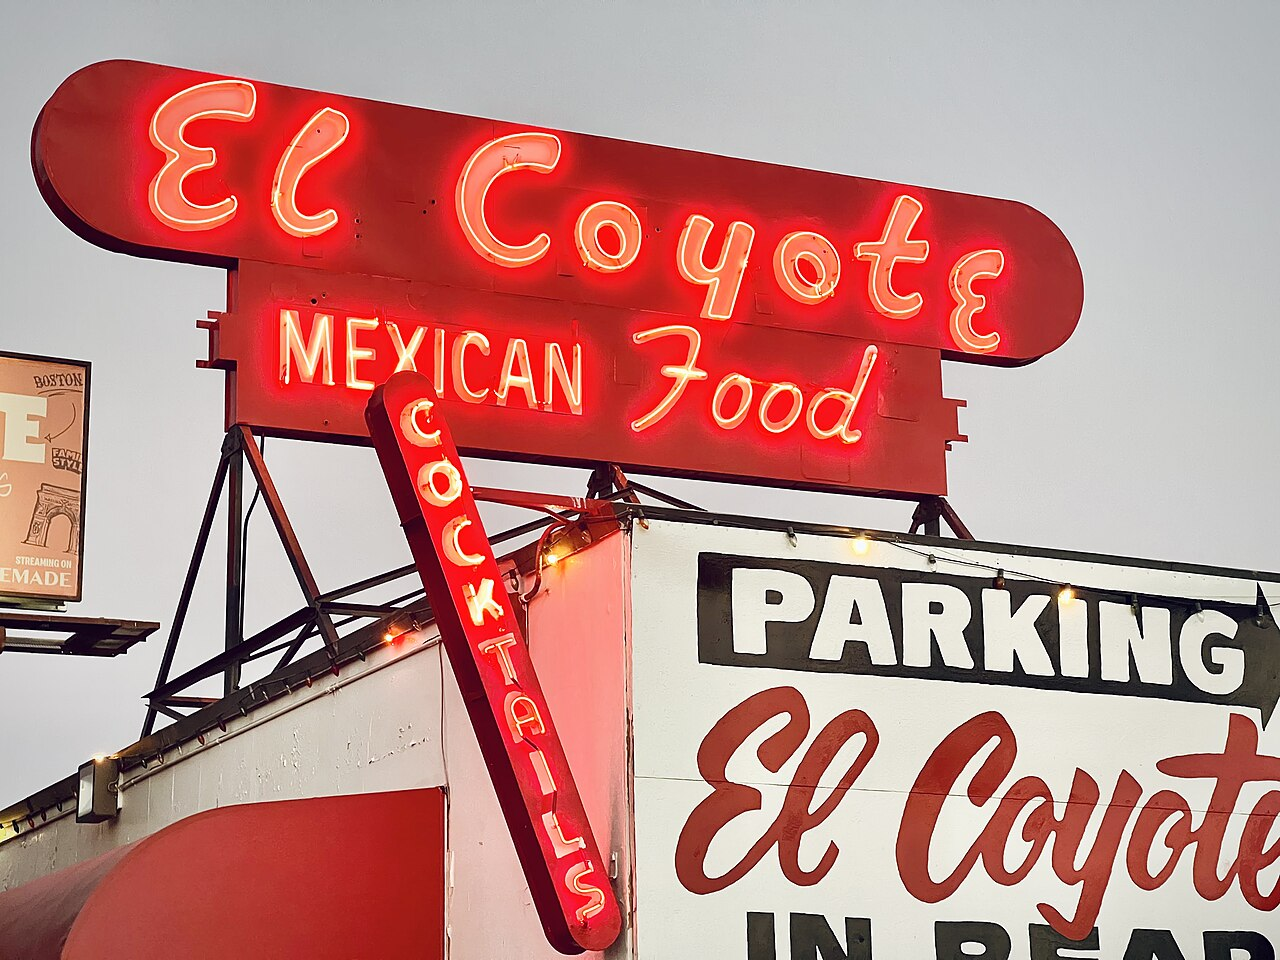
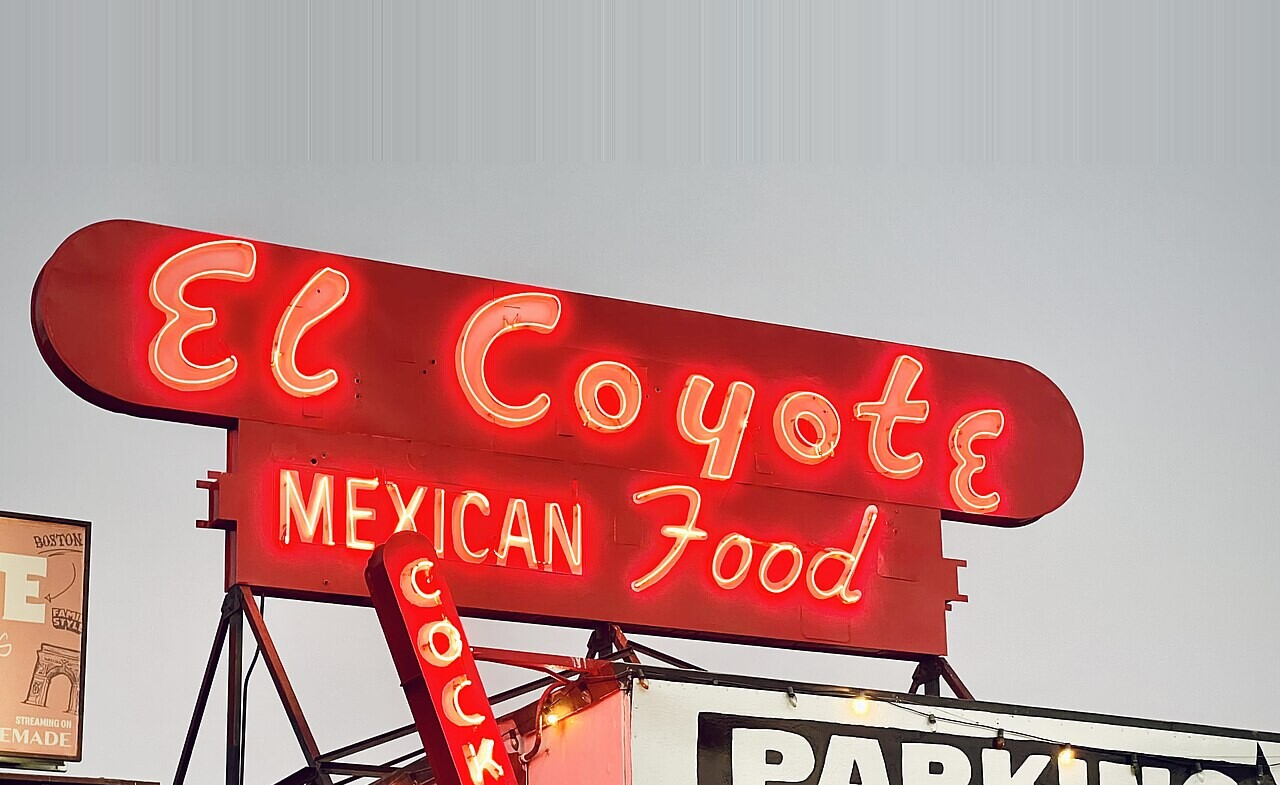
TikTok posts for 2026-11-21: El Coyote, Long Beach vinyl, Malibu seafood, LA bookstores, Chinatown bakeries, plus 2 series posts
Five posts (El Coyote Cafe spotlight; Fingerprints vs Toxic Toast; Neptune's Net vs
Malibu Seafood; Larry Edmunds vs Skylight Books; Phoenix Bakery vs Kim Hung Bakery)
and the series posts for Bay Cities and Pann's. Real Commons photos for El Coyote,
Neptune's Net and Phoenix Bakery; the El Coyote and Neptune's Net photos are cropped so
the signs sit below the card's awning. A 1 vs 1 post can now set its distance label in
words ("apart"), used for the Chinatown bakeries, which have two shops between them.
El Coyote joins the series queue. Used places logged.

diff --git a/social/template.html b/social/template.html
@@ -396,7 +396,8 @@ const FORMATS = {
       frame.append(vs);
     }
     if (post.places[0].lat && post.places[1].lat) {
-      const apart = el("div", "apart", text(milesApart(post.places[0], post.places[1])));
+      // A post can say it in words when the map points mislead ("a few doors apart" with shops in between).
+      const apart = el("div", "apart", text(post.apart || milesApart(post.places[0], post.places[1])));
       pop(apart, 6.1);
       frame.append(apart);
     }

diff --git a/social/README.md b/social/README.md
@@ -78,7 +78,9 @@ node social/suggest.mjs Burbank      # ideas in one city
 
 1. Pick an idea and check both places on the web.
 2. Add the post to `posts.json` (copy an existing one: `id`, `format`, `hook`, `places`, `cta`,
-   `caption`, `hashtags`, `sources`). Hook lines: 24 characters at most.
+   `caption`, `hashtags`, `sources`). Hook lines: 24 characters at most. A 1 vs 1 post can set
+   `"apart"` (e.g. "a few doors apart") when the distance label from the map points would be wrong,
+   such as two shops with other storefronts between them.
 3. Render:
 
    ```
